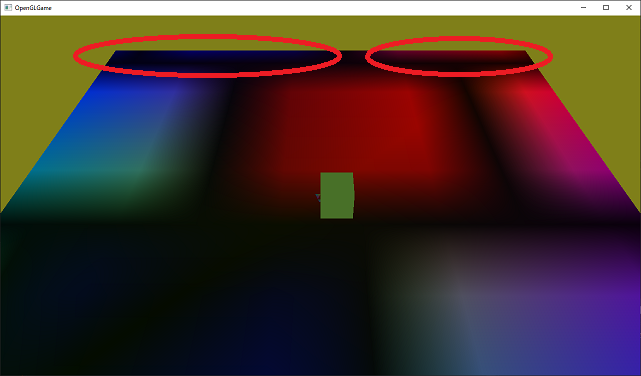
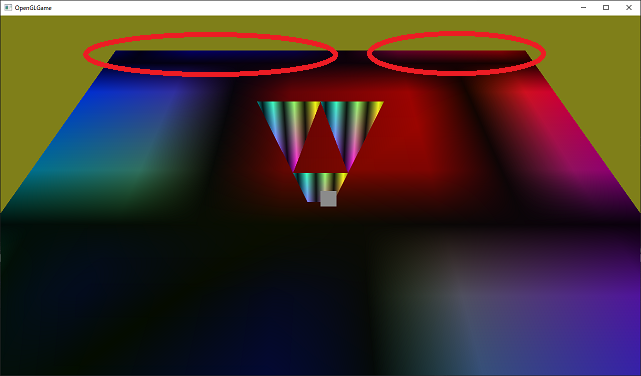
第04回の5章を大幅に書き換え
木モデルではなく地面テクスチャを追加する内容に変更.

diff --git a/Doc/OpenGL3D_2021_04.md b/Doc/OpenGL3D_2021_04.md
@@ -470,28 +470,38 @@ void glBindTexture(テクスチャの種類, テクスチャオブジェクトID
 
 <pre class="tnmai_assignment">
 <strong>【課題01】</strong>
-立方体のための画像データを定義しなさい。大きさは6x6ピクセルで、上半分を緑色、下半分を茶色にしてください。配列変数の名前は<code>imageTree</code>としてください。
+三角形のための画像データを定義しなさい。大きさは6x6ピクセルで、白と黒の縞模様にしてください。配列変数の名前は<code>imageTriangle</code>としてください。
 </pre>
 
 <pre class="tnmai_assignment">
 <strong>【課題02】</strong>
-<code>GLContext::CreateImage2D</code>関数を使って、課題01で作成した<code>imageTree</code>からテクスチャオブジェクトを作成しなさい。テクスチャオブジェクトの変数名は<code>texTree</code>としてください。<code>glDeleteTextures</code>関数で削除するのを忘れないように。
+<code>GLContext::CreateImage2D</code>関数を使って、課題01で作成した<code>imageTriangle</code>からテクスチャオブジェクトを作成しなさい。テクスチャオブジェクトの変数名は<code>texTriangle</code>としてください。<code>glDeleteTextures</code>関数で削除するのを忘れないように。
 </pre>
 
-課題01と02で作成したテクスチャを立方体に貼り付けてみましょう。三角形を描画するプログラムの下に、次のプログラムを追加してください。
+<pre class="tnmai_assignment">
+<strong>【課題03】</strong>
+<code>positions</code>配列の値を修正して、三角形の大きさを10倍にしなさい。
+</pre>
+
+<pre class="tnmai_assignment">
+<strong>【課題04】</strong>
+次の図を参考にして、<code>texcoords</code>配列に三角形のテクスチャ座標データを追加しなさい。
+<p align="center"><img src="images/04_texcoord_triangle.png" width="40%"/></p></pre>
+
+課題01と02で作成したテクスチャを三角形に貼り付けてみましょう。三角形を描画するプログラムの手前に、次のプログラムを追加してください。
 
 ```diff
      primGround.Draw();
-     primTriangles.Draw();
 +
-+    glBindTextureUnit(0, texTree); // テクスチャを割り当てる.
++    glBindTextureUnit(0, texTriangle); // テクスチャを割り当てる.
+     primTriangles.Draw();
      primCube.Draw();
 
      // テクスチャの割り当てを解除.
      glActiveTexture(GL_TEXTURE0);
 ```
 
-プログラムが書けたらビルドして実行してください。立方体が緑と茶色に塗られていたら成功です。
+プログラムが書けたらビルドして実行してください。三角形に縞模様が表示されていたら成功です。
 
 <p align="center">
 <img src="images/04_result_1_1.png" width="50%" /><br>
@@ -868,7 +878,7 @@ void glSmaplerParameteri(サンプラオブジェクトID, パラメータの種
 それではサンプラオブジェクトを使ってみましょう。`Main.cpp`を開き、テクスチャを作成するプログラムの下に、次のプログラムを追加してください。
 
 ```diff
-  if (!texGround || !texTree) {
+  if (!texGround || !texTriangle) {
     return 1;
   }
 +
@@ -887,7 +897,7 @@ void glSmaplerParameteri(サンプラオブジェクトID, パラメータの種
 ```diff
    // 後始末.
 +  glDeleteSamplers(1, &sampler);
-   glDeleteTextures(1, &texTree);
+   glDeleteTextures(1, &texTriangle);
    glDeleteTextures(1, &texGround);
    glDeleteProgramPipelines(1, &pipeline);
 ```
@@ -921,12 +931,10 @@ void glSmaplerParameteri(サンプラオブジェクトID, パラメータの種
 void glBindSampler(ユニット番号, サンプラオブジェクトID);
 </code></p>
 
-この関数は`glBindTextureUnit`関数のサンプラオブジェクト版です。
-
-プログラムが書けたらビルドして実行してください。下の画像のように、地面の奥側が完全に黒くなっていたら成功です。
+この関数は`glBindTextureUnit`関数のサンプラオブジェクト版です。プログラムが書けたらビルドして実行してください。次の画像のように、地面の奥側が黒くなっていたら成功です。
 
 <p align="center">
-<img src="images/04_result_4.png" width="50%" /><br>
+<img src="images/04_result_4.png" width="45%" /><br>
 </p>
 
 ### 4.5 拡大・縮小フィルタ
@@ -1031,162 +1039,144 @@ void glBindSampler(ユニット番号, サンプラオブジェクトID);
  const GLushort indices[] = {
 ```
 
-プログラムが書けたらビルドして実行してください。以下の画像のように、`GL_CLAMP_TO_EDGE`の説明と同じように表示されていたら成功です。
+プログラムが書けたらビルドして実行してください。以下の画像のように表示されていたら成功です。5.1節にある`GL_CLAMP_TO_EDGE`の図と見比べてみてください。
 
 <p align="center">
 <img src="images/04_result_6.png" width="50%" /><br>
 </p>
 
 <pre class="tnmai_assignment">
-<strong>【課題03】</strong>
+<strong>【課題05】</strong>
 ラップ・モードを変更して実行し、5.1節の図のとおりに見た目が変化することを確認しなさい。
-立方体の描画をコメント化などで一時的に無効化しておくと確認しやすいでしょう。
+コメント化などで、三角形と立方体の描画を一時的に無効化すると確認しやすいでしょう。
 確認したあとは<code>GL_REPEAT</code>を設定しなさい。
 </pre>
 
 <pre class="tnmai_assignment">
-<strong>【課題04】</strong>
-地面にグラデーションがかかって表示されるのは、地面の色データが合成されているためです。
-画像データの色が表示されるように、地面の色データを白に変更しなさい。
+<strong>【課題06】</strong>
+地面にグラデーションがかかって表示されるのは、地面の色データが合成されているためです。画像データの色が表示されるように、地面の色データを白に変更しなさい。
 </pre>
 
 >**【4章のまとめ】**<br>
 >
->* 0.0～1.0を超えるテクスチャ座標の色は、ラップモードによってGPUが自動的に決定する。
->* ラップモートを変えることで、0.0～1.0の外側の色を変更できる。
+>* テクスチャ座標が0.0～1.0を超える部分の色は、GPUが自動的に決定する。
+>* ラップモードを変えることで、0.0～1.0を超える部分の色の決め方を変更できる。
 >* 拡大・縮小フィルタを指定すると、テクスチャをピクセル単位で描画するか、なめらかに描画するかを変更できる。
 
 <div style="page-break-after: always"></div>
 
-## 5. 木を植える
+## 5. 地面マップ
 
-### 5.1 木モデルを作る
+### 5.1 マップデータを作成する
 
-地面だけだと見た目が寂しいので、木を植えましょう。といっても、複雑な形状を作るのは大変なので、
-緑と茶色の四角錐を縦に重ねて「木」と言い張ることにします。まずは次の課題を行って、頂点データを追加してください。
-
-<pre class="tnmai_assignment">
-<strong>【課題05】</strong>
-以下の図にあるピンクの数字は頂点のインデックス、白い数字は頂点の座標を示しています。
-<code>positions</code>配列に、以下の図にある12個の頂点座標をインデックス0番から11番まで順番に追加しなさい。
-次に、追加した座標データに対応する色データを、<code>colors</code>配列に追加しなさい。色は白とします。
-<p align="center"><img src="images/04_tree_geometry_0.png" width="40%"/> <img src="images/04_tree_geometry_1.png" width="37%"/></p></pre>
-
-<pre class="tnmai_assignment">
-<strong>【課題06】</strong>
-以下の図を参考にして、<code>texcoodes</code>配列に12個のテクスチャ座標を追加しなさい。例えば、0番目のテクスチャ座標は<code>(0.5, 1.0)</code>、1番目のテクスチャ座標は<code>(0.0, 0.5)</code>になります。
-<p align="center"><img src="images/04_tree_texture_0.png" width="23%"/> <img src="images/04_tree_texture_1.png" width="23%"/></p></pre>
-
-続いて、インデックスデータを追加しましょう。`indices`配列に次のプログラムを追加してください。
-
-```diff
-  // 立方体
-  0, 1, 2, 2, 3, 0, 4, 5, 1, 1, 0, 4,
-  5, 6, 2, 2, 1, 5, 6, 7, 3, 3, 2, 6,
-  7, 4, 0, 0, 3, 7, 7, 6, 5, 5, 4, 7,
-+
-+ // 木
-+ 0, 1, 2, 0, 2, 3, 0, 3, 4, 0, 4, 5, 1, 4, 3, 3, 2, 1, // 葉
-+ 6, 7, 8, 6, 8, 9, 6, 9,10, 6,10,11, 7,10, 9, 9, 8, 7, // 幹
- };
-
- // 描画データ.
-```
-
-なお、立方体のインデックスは個々人で書き方が異なると思います。ですから、テキストと違っていても気にしないでください。
-
-最後に描画データを追加します。新しい描画データを定義するには、「インデックスデータの数」、「インデックスデータの位置」、「頂点データの位置」の3つを調べる必要があります。
-
-「インデックスデータの数」は、追加したインデックスの数そのものです。上記で追加したデータ数を数えると36個だと分かります。
-
-「インデックスデータの位置」は、追加したデータの先頭が`indices`配列の何番目にあるか、です。この数値はこれまでに作成したインデックスデータによって違うので、実際に数<rt>かぞ</rt></ruby>える必要があります。
+見た目に変化をつけるために、複数のテクスチャを使い分けて地面を描くようにしていきます。まず以下の課題を行って、2つのテクスチャを追加してください。
 
 <pre class="tnmai_assignment">
 <strong>【課題07】</strong>
-<code>indices</code>について、木のインデックスデータの前にあるデータの数を調べなさい。
-図形ごとのデータ数を、コメントとしてメモしておくと間違えにくいでしょう。
+「<ruby>緑地<rt>りょくち</rt></ruby>」を表すテクスチャと「道路」表すテクスチャの2つを作成しなさい。テクスチャ変数名は<code>texGreen</code>、<code>texRoad</code>としなさい。画像の大きさは8x8とします。色は自由に決めてください。
 </pre>
 
-「頂点データの位置」も、インデックスデータの位置と同様に<ruby>数<rt>かぞ</rt></ruby>えなくてはなりません。
-
-<pre class="tnmai_assignment">
-<strong>【課題08】</strong>
-<code>positions</code>について、木の座標データの前にあるデータの数をかぞえなさい。
-図形ごとのデータ数を、コメントとしてメモしておくと間違えにくいでしょう。
-</pre>
-
-3つの数値が得られたので、描画データに次のプログラムを追加してください。「課題??の値」と書かれている部分は、それぞれ上記の課題で調べた数値で置き換えてください。
+次に、地面のどの位置にどのテクスチャを割り当てるかを、2次元配列として定義します。フラグメントシェーダー文字列の定義の下に、次のプログラムを追加してください。
 
 ```diff
- const Primitive primTriangles(GL_TRIANGLES, 9, 12 * sizeof(GLushort), 0); // 三角形
- const Primitive primCube(GL_TRIANGLES, 36, 21 * sizeof(GLushort), 19); // 立方体
-+const Primitive primTree(GL_TRIANGLES, 36, 課題07の値 * sizeof(GLushort), 課題08の値); // 木
+   "  vec4 tc = texture(texColor, inTexcoord); \n"
+   "  fragColor = inColor * tc; \n"
+   "} \n";
++
++/// マップデータ.
++static const int mapData[10][10] = {
++  { 0, 0, 0, 1, 2, 2, 1, 0, 0, 0},
++  { 0, 0, 0, 1, 2, 2, 1, 0, 0, 0},
++  { 0, 0, 0, 1, 2, 2, 1, 0, 0, 0},
++  { 0, 0, 0, 1, 2, 2, 1, 0, 0, 0},
++  { 0, 0, 0, 1, 2, 2, 1, 0, 0, 0},
++  { 0, 0, 0, 1, 2, 2, 1, 0, 0, 0},
++  { 0, 0, 0, 1, 2, 2, 1, 0, 0, 0},
++  { 0, 0, 0, 1, 2, 2, 1, 0, 0, 0},
++  { 0, 0, 0, 1, 2, 2, 1, 0, 0, 0},
++  { 0, 0, 0, 1, 2, 2, 1, 0, 0, 0},
++};
 
- // 画像データ.
- const int imageGroundWidth = 8; // 画像の幅.
+ /**
+ * OpenGLからのメッセージを処理する.
 ```
 
-描画データを作成したので木を表示しましょう。立方体を表示するプログラムを次のように変更してください。
+マップデータの`0`は緑地、`1`はタイル、`2`は道路を表します。
+
+### 5.2 マップデータを描画する
+
+地面は小さな四角形を敷き詰めて作成します。現在の地面用の四角形は大きすぎるので、大きさを縮めましょう。`positions`配列を次のように変更してください。
 
 ```diff
-     primGround.Draw();
-     primTriangles.Draw();
-
-     glBindTextureUnit(0, texTree); // テクスチャを割り当てる.
--    primCube.Draw();
-+    primTree.Draw();
-
-     // テクスチャの割り当てを解除.
-     glActiveTexture(GL_TEXTURE0);
-     glBindTexture(GL_TEXTURE_2D, 0);
+ const Position positions[] = {
+   // 地面
+-  {-20.0f, 0.0f, 20.0f},
+-  { 20.0f, 0.0f, 20.0f},
+-  { 20.0f, 0.0f,-20.0f},
+-  {-20.0f, 0.0f,-20.0f},
++  {-2.0f, 0.0f, 2.0f},
++  { 2.0f, 0.0f, 2.0f},
++  { 2.0f, 0.0f,-2.0f},
++  {-2.0f, 0.0f,-2.0f},
+ 
+   {-0.2f, -0.5f, 0.1f},
+   { 0.3f, -0.5f, 0.1f},
 ```
 
-プログラムが書けたらビルドして実行してください。次のように小さな木が表示されていたら成功です。
-
-<p align="center">
-<img src="images/04_result_7.png" width="50%" /><br>
-</p>
-
-### 5.2 複数の木を植える
-
-木が1本だけではさびしいので、もっとたくさん植えたいですね。描画のたびにモデル行列を変更することで、3Dモデルの表示位置や角度、大きさを変えられます、します。`for`を使って5本の木を並べて植えてみましょう。木を表示するプログラムを、次のように変更してください。
+それでは、作成したテクスチャと小さくした地面用の四角形を使って、マップデータを描画しましょう。四角形の表示位置を変更するには、描画のたびにモデル行列を変更します。地面を描画するプログラムを次のように変更してください。
 
 ```diff
-     primTriangles.Draw();
+     const glm::mat4 matMVP = matProj * matView * matModel;
+     glProgramUniformMatrix4fv(vp, locMatTRS, 1, GL_FALSE, &matMVP[0][0]);
 
-     glBindTextureUnit(0, texTree); // テクスチャを割り当てる.
-+    // 木の配置データ.
-+    const glm::vec3 treePosList[] = {
-+      {-18, 0, -18}, {-14, 0, -18}, {-10, 0, -18}, { -6, 0, -18}, { -2, 0, -18},
-+    };
-+    for (auto pos : treePosList) {
-+      const glm::mat4 matModel = glm::translate(glm::mat4(1), pos);
-+      const glm::mat4 matMVP = matProj * matView * matModel;
-+      glProgramUniformMatrix4fv(vp, locMatTRS, 1, GL_FALSE, &matMVP[0][0]);
-       primTree.Draw();
+-    glBindTextureUnit(0, texGround); // テクスチャを割り当てる.
+-
+-    primGround.Draw();
+     glBindTextureUnit(0, texTriangle); // テクスチャを割り当てる.
+     primTriangles.Draw();
+     primCube.Draw();
++
++    // マップを(-20,-20)-(20,20)の範囲に描画.
++    const GLuint mapTexList[] = { texTree, texGround, texRoad };
++    for (int y = 0; y < 10; ++y) {
++      for (int x = 0; x < 10; ++x) {
++        // 四角形が4x4mなので、xとyを4倍した位置に表示する.
++        const glm::vec3 position(x * 4 - 20, 0, y * 4 - 20);
++
++        // 行列をシェーダに転送する 
++        const glm::mat4 matModel = glm::translate(glm::mat4(1), position);
++        const glm::mat4 matMVP = matProj * matView * matModel;
++        glProgramUniformMatrix4fv(vp, locMatTRS, 1, GL_FALSE, &matMVP[0][0]);
++
++        const int textureNo = mapData[y][x];
++        glBindTextureUnit(0, mapTexList[textureNo]); // テクスチャを割り当てる.
++        primGround.Draw();
++      }
 +    }
 
      // テクスチャの割り当てを解除.
      glActiveTexture(GL_TEXTURE0);
 ```
 
-プログラムが書けたらビルドして実行してください。見づらいですが、地面の上端に木が並んで植えられていたら成功です。
+`mapTexList`配列は、番号に対応するテクスチャを決めています。マップデータの種類を増やすには、この配列にテクスチャを追加する必要があります。
+
+プログラムが書けたらビルドして実行してください。次のように、緑地、タイル、道路の3種類が、マップデータのとおりに表示されていたら成功です。
 
 <p align="center">
-<img src="images/04_result_8.png" width="50%" />
+<img src="images/04_result_6_1.png" width="50%" /><br>
 </p>
 
 <pre class="tnmai_assignment">
-<strong>【課題09】</strong>
-<code>treePosList</code>配列にデータを追加して、地面上端の右側に、左側と同じ間隔で木を5本並べなさい。
+<strong>【課題08】</strong>
+現在、地面モデルのテクスチャ座標は-4.0～4.0になっています。これを0.0～1.0に変更しなさい。
 </pre>
 
 <pre class="tnmai_assignment">
-<strong>【課題10】</strong>
-木を追加で10本以上植えなさい。位置は自由に決めて構いません。
+<strong>【課題09】</strong>
+マップデータを自由に変更しなさい。テクスチャを追加しても構いません。
 </pre>
 
 >**【5章のまとめ】**<br>
 >
->* `Primitive`コンストラクタの引数を決定するには、データ数を数える必要がる。
->* `glm::translate`(ジーエルエム・トランスレート)関数を使うとモデルの表示位置を指定できる。
+>* モデル行列を変更することで、プリミティブの表示位置を自由に指定できる。
+>* 表示位置を指定するには`glm::translate`(ジーエルエム・トランスレート)関数を使う。
